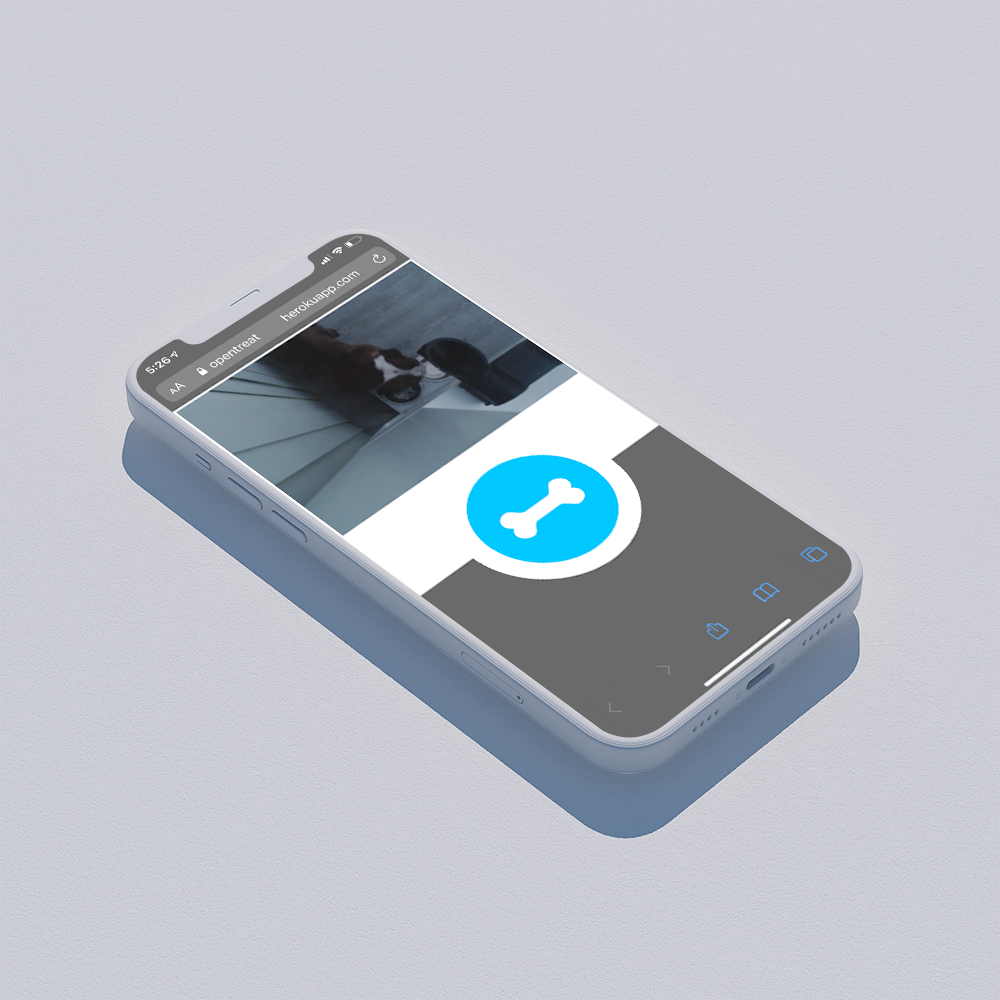
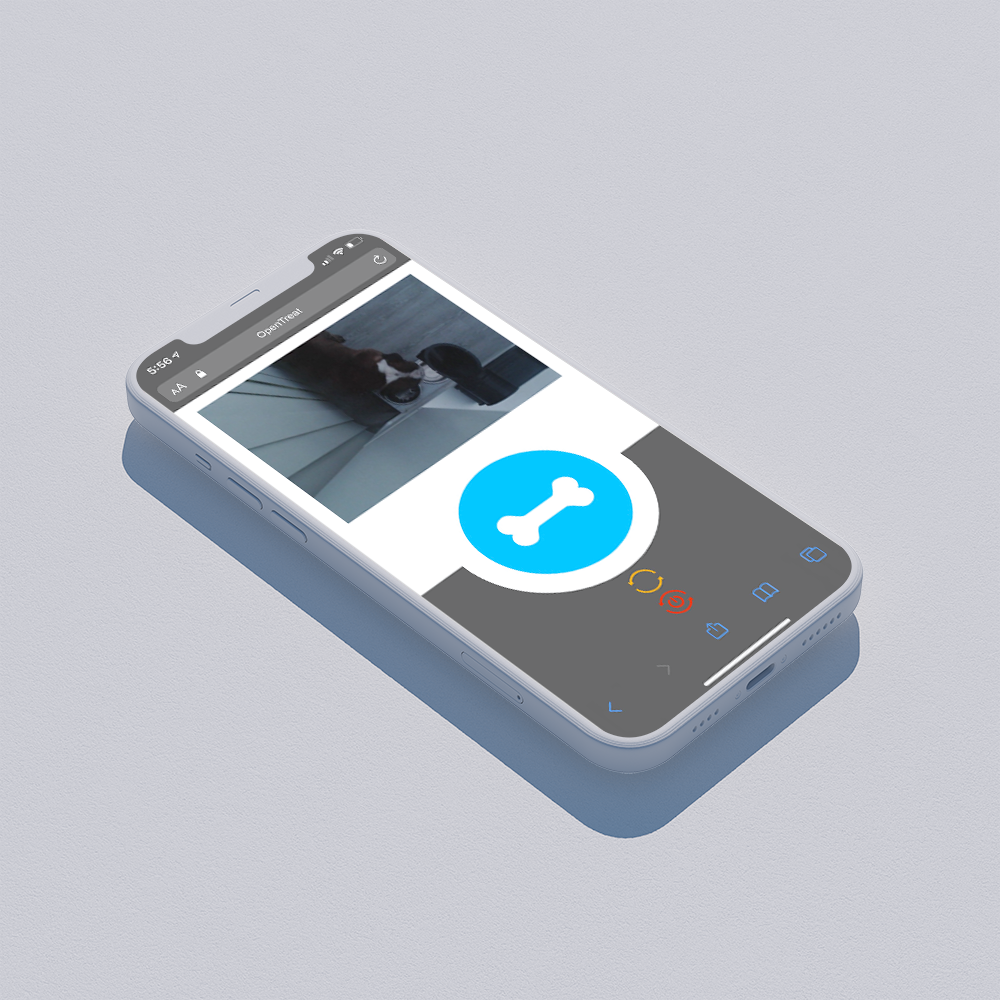
update mockup and README with latest layout and buttons

diff --git a/README.md b/README.md
@@ -89,7 +89,10 @@ If everything was successful you can now browse to `https://<my-opentreat-projec
 
 ## Usage
 ### View the video stream
-On your smartphone or laptop, browse to `https://<my-opentreat-project>.herokuapp.com` to view the video stream of your pets. Press the blue bone button to spin the auger and drop the treats into your pets' bowl. The red button reboots the Raspberry Pi.
+On your smartphone or laptop, browse to `https://<my-opentreat-project>.herokuapp.com` to view the video stream of your pets. 
+Press the blue bone button to spin the auger and drop treats into your pets' bowl. 
+The orange button restarts the webcam broadcast.
+The red button reboots the Raspberry Pi.
 
 ## Resources
 ### Links
